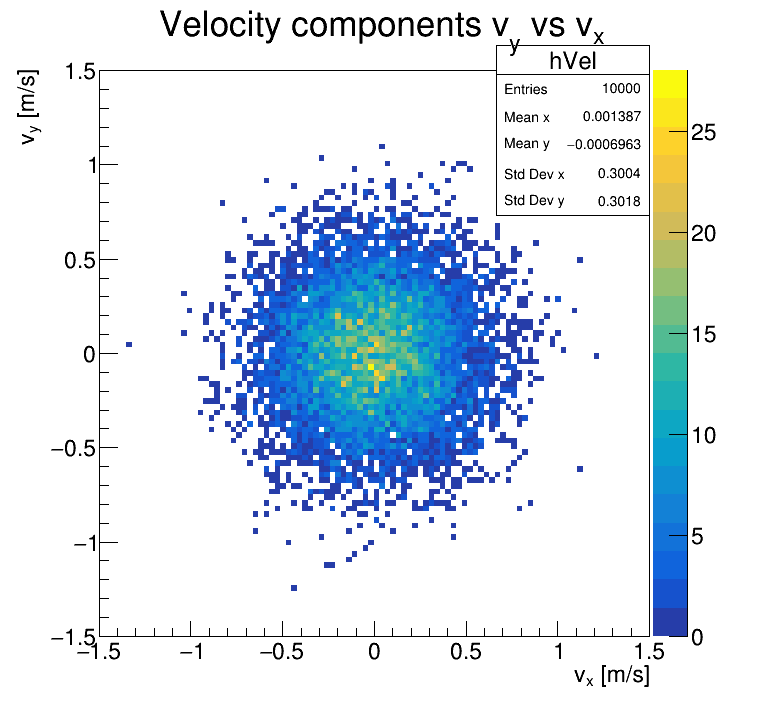
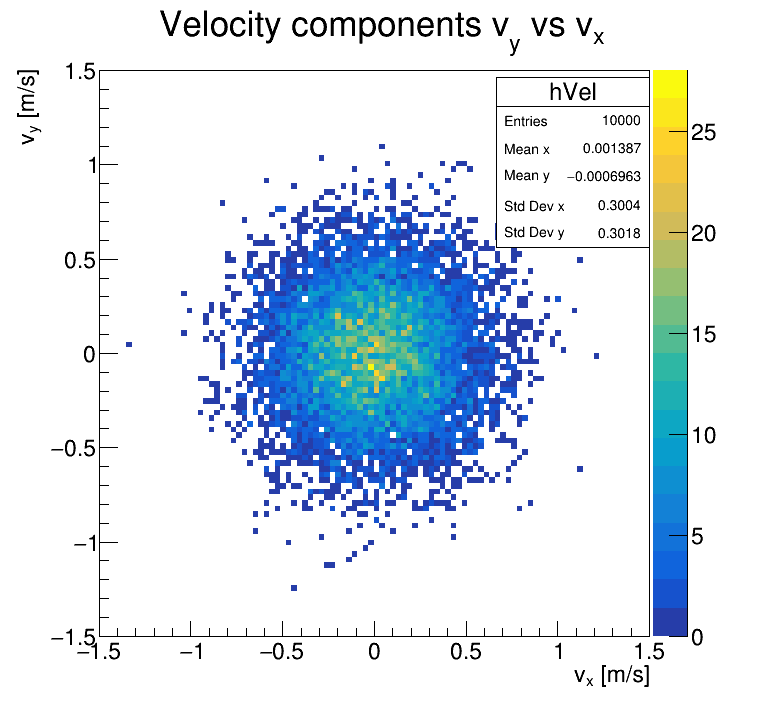
HW6 part 3: move stats box below title

Changed region(s): [[0.6322, 0.0622, 0.8429, 0.3423]]

diff --git a/homework6/read.C b/homework6/read.C
@@ -37,6 +37,7 @@ void read() {
   std::cout << "mean vy = " << hVel->GetMean(2) << ", std dev vy = " << hVel->GetStdDev(2) << std::endl;
 
   gStyle->SetStatX(0.85);
+  gStyle->SetStatY(0.89);
   TCanvas *c1 = new TCanvas("c1", "velocity components", 800, 700);
   c1->SetLeftMargin(0.13);
   c1->SetRightMargin(0.15);
